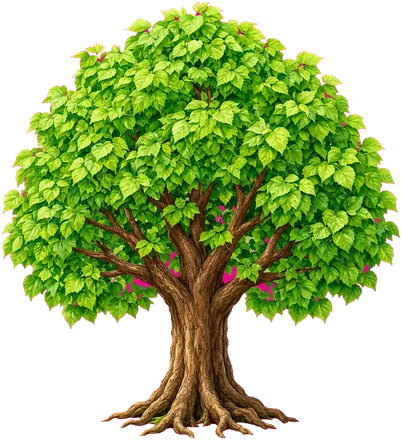
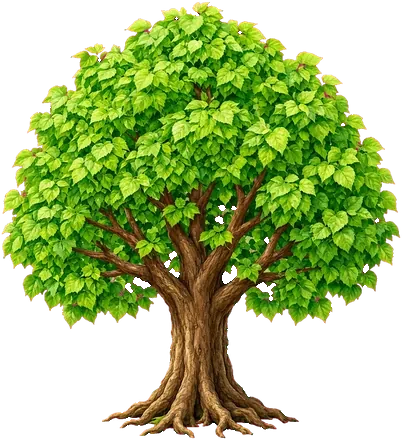
Odstraň purpurové skvrny z koruny velkého stromu
Zbytky pozadí mezi větvemi jsou teď průhledné.

Claude-Session: https://claude.ai/code/session_01HvbWHoqHLJQwfRFFMYyRvu

diff --git a/src/game/runner.ts b/src/game/runner.ts
@@ -325,7 +325,7 @@ function hash(n: number): number {
   return x - Math.floor(x);
 }
 
-const ART_REV = "36";
+const ART_REV = "37";
 
 async function loadImage(src: string): Promise<HTMLImageElement | null> {
   try {
